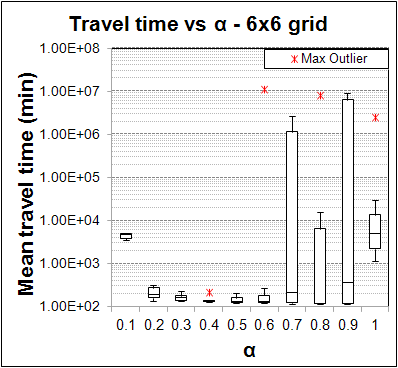
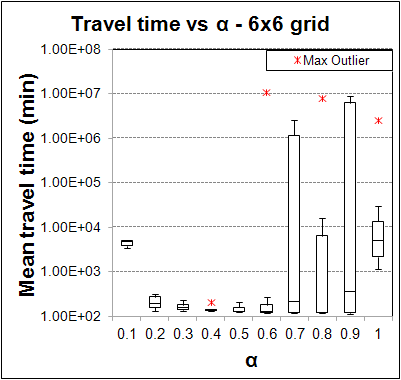
img and paper updates

diff --git a/paper/routeChoiceViaRL_RITA.tex b/paper/routeChoiceViaRL_RITA.tex
@@ -127,7 +127,9 @@ Another example of successful application of independent learners can be found i
 
 %With this process, a Pareto-efficient distribution or the Wardrop's equilibrium \cite{Wardrop1952} may be reached. In this condition, no agent can reduce its costs by switching routes without rising costs for other agents. 
 
-Traffic assignment problems can be addressed by several approaches, many of them considering abstract traffic scenarios. Two-route scenarios are studied in \cite{Bazzan+2000icmas,Kluegl&Bazzan2004jasss}. The former work assesses the effect of different strategies for binary route choice. The latter presents a model where commuters behavior is based on evolving heuristics and also performs experiments regarding route choice with a forecast: a traffic control system perceives drivers' decisions and returns a forecast. Then drivers have to decide the actual route selection. Each one of these works assessed relevant aspects of the agents' decision-making process, even though only binary route choice scenarios were studied. The interest of the present work is to evaluate a route choice approach in more complex scenarios, with several routes.
+Traffic assignment problems can be addressed by several approaches, many of them considering abstract traffic scenarios. Two-route scenarios are studied in \cite{Bazzan+2000icmas,Kluegl&Bazzan2004jasss,Chmura&Pitz2007}. The first work assesses the effect of different strategies for binary route choice. The second presents a model where commuters' behavior is based on evolving heuristics and also performs experiments regarding route choice with a forecast: a traffic control system perceives drivers' decisions and returns a forecast. Then drivers have to decide the actual route selection. The third uses a reinforcement learning scheme to reproduce human decision-making in a corresponding experimental study
+
+Each one of these works assessed relevant aspects of the agents' decision-making process, even though only binary route choice scenarios were studied. The interest of the present work is to evaluate a route choice approach in more complex scenarios, with several routes.
 
 This kind of complex scenario was investigated by Bazzan and Kl\"ugl \cite{Bazzan&Kluegl2008}, where the effect of real time information on drivers' route replanning is assessed. The work includes studies with adaptive traffic lights. In the most successful en-route replanning strategy presented in that work, the authors assume that the entire network occupancy is known by the drivers. This assumption was needed for assessing the effects of re-routing, although the availability of real time information of the entire network for all the drivers is an unrealistic assumption.
 
@@ -343,7 +345,7 @@ For the $\alpha$-varying tests, $\gamma$ was set as $1.0$ and for the $\gamma$-v
     \includegraphics[width=6cm]{img/travelTimeVsAlpha-grid.png}
     \label{fig:travelTimeVsAlpha-grid}
   }
-  \caption{Box-and-whisker charts showing the effect of $\alpha$ on the number of aborted trips \subref{fig:abortedTripsVsAlpha}, the mean trip length \subref{fig:tripLengthVsAlpha} and mean travel time \subref{fig:travelTimeVsAlpha-grid} in the 6x6 grid scenario.}
+  \caption{Box-and-whisker charts showing the effect of $\alpha$ on the number of aborted trips \subref{fig:abortedTripsVsAlpha}, the mean trip length \subref{fig:tripLengthVsAlpha} and mean travel time in log scale \subref{fig:travelTimeVsAlpha-grid} in the 6x6 grid scenario.}
   \label{fig:qLearningAlpha-grid}
 \end{figure}
 
@@ -363,7 +365,7 @@ Figure \ref{fig:qLearningAlpha-grid} shows that, for high values of $\alpha$, dr
     \includegraphics[width=6cm]{img/travelTimeVsGamma-grid.png} %TODO make it possible to see the zero
     \label{fig:travelTimeVsGamma-grid}
   }
-  \caption{Box-and-whisker charts showing the effect of $\gamma$ on the number of aborted trips \subref{fig:abortedTripsVsGamma}, the mean trip length \subref{fig:tripLengthVsGamma} and mean travel time \subref{fig:travelTimeVsGamma-grid} in the 6x6 grid scenario.}
+  \caption{Box-and-whisker charts showing the effect of $\gamma$ on the number of aborted trips \subref{fig:abortedTripsVsGamma}, the mean trip length \subref{fig:tripLengthVsGamma} and mean travel time in log scale \subref{fig:travelTimeVsGamma-grid} in the 6x6 grid scenario.}
   \label{fig:qLearningGamma-grid}
 \end{figure}
 
@@ -413,7 +415,7 @@ In this metric, the RL approach outperforms the others, as reasonable travel tim
     \label{fig:travelTimeComparison}
 \end{figure}
 
-\begin{figure}[H]
+\begin{figure}[ht]
   \centering
   \subfigure[]{
     \includegraphics[width=5.8cm]{img/numCongestedRoads-hatched.png}
